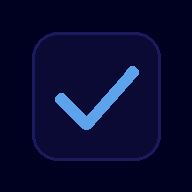
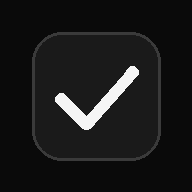
Add files via upload

diff --git a/index.html b/index.html
@@ -5,68 +5,77 @@
 <meta name="viewport" content="width=device-width, initial-scale=1">
 <title>Tareas</title>
 <meta name="description" content="Administra tus tareas con recordatorios.">
-<meta name="theme-color" content="#000020">
+<meta name="theme-color" content="#0a0a0a">
 <link rel="manifest" href="manifest.webmanifest">
 <link rel="icon" href="icon-192.png">
 <link rel="apple-touch-icon" href="icon-192.png">
 <style>
-:root{color-scheme:dark;--bg:#000020;--card:#0a0a35;--text:#eef0ff;--muted:#b3b8e0;--line:#5a63b5;--borde:#1a1a5c;--primary:#5da3ec;--onp:#000020;
-  --ok:#86efac;--okbg:#14532d;--warn:#fcd34d;--warnbg:#78350f;--bad:#fca5a5;--badbg:#7f1d1d;--soon:#b4c0ff;--soonbg:#16165e}
+:root{color-scheme:dark;--bg:#0a0a0a;--card:#141414;--card2:#1b1b1b;--text:#f5f5f5;--muted:#a3a3a3;--line:#6b6b6b;--borde:#262626;--primary:#f5f5f5;--onp:#0a0a0a;
+  --ok:#4ade80;--okbg:#052e16;--warn:#fbbf24;--warnbg:#3a2a05;--bad:#f87171;--badbg:#3b0d0d;--soon:#d4d4d4;--soonbg:#262626;--r:18px}
 *{box-sizing:border-box;margin:0;padding:0}
-body{font-family:system-ui,"Segoe UI",Arial,sans-serif;font-size:17px;line-height:1.5;background:var(--bg);color:var(--text);padding-bottom:110px}
-.wrap{max-width:860px;margin:0 auto;padding:14px}
-h1{font-size:1.5rem}h2{font-size:1.25rem;margin-bottom:12px}h3{font-size:1.1rem}
+body{font-family:system-ui,-apple-system,"Segoe UI",Roboto,Arial,sans-serif;font-size:17px;line-height:1.5;color:var(--text);padding-bottom:110px;
+  background:radial-gradient(1000px 420px at 50% -8%,#1f1f1f 0%,#0a0a0a 62%) fixed,#0a0a0a}
+.wrap{max-width:860px;margin:0 auto;padding:0 14px 14px}
+h1{font-size:1.5rem;font-weight:700;letter-spacing:-.02em}h2{font-size:1.25rem;font-weight:700;letter-spacing:-.01em;margin-bottom:12px}h3{font-size:1.1rem;font-weight:650;letter-spacing:-.01em}
 button,input,select,textarea{font:inherit;color:inherit}
-button{min-height:44px;padding:8px 16px;border-radius:10px;border:2px solid var(--primary);background:var(--primary);color:var(--onp);font-weight:600;cursor:pointer}
-button.sec{background:transparent;color:var(--primary)}
+button{min-height:44px;padding:8px 18px;border-radius:12px;border:1px solid transparent;background:var(--primary);color:var(--onp);font-weight:600;cursor:pointer;transition:transform .15s,background .15s,border-color .15s,filter .15s}
+button:hover{filter:brightness(.92)}button:active{transform:scale(.97)}
+button.sec{background:transparent;color:var(--text);border-color:#3f3f3f}
+button.sec:hover{background:#1f1f1f;border-color:#555;filter:none}
 button.peligro{background:#b91c1c;border-color:#b91c1c;color:#fff}
-button[disabled]{opacity:.6;cursor:not-allowed}
-:focus-visible{outline:3px solid var(--primary);outline-offset:2px}
+button[disabled]{opacity:.55;cursor:not-allowed}
+:focus-visible{outline:2px solid #fff;outline-offset:3px}
 .hidden{display:none!important}
-header.bar{display:flex;flex-wrap:wrap;gap:10px;align-items:center;justify-content:space-between;margin-bottom:14px}
+header.bar{position:sticky;top:0;z-index:10;display:flex;flex-wrap:wrap;gap:10px;align-items:center;justify-content:space-between;
+  margin:0 -14px 16px;padding:12px 14px;background:rgba(10,10,10,.72);backdrop-filter:blur(14px);-webkit-backdrop-filter:blur(14px);border-bottom:1px solid var(--borde)}
 .bar .acc{display:flex;flex-wrap:wrap;gap:8px;align-items:center}
 .bar .mail{color:var(--muted);font-size:.9rem;word-break:break-all}
-.card{background:var(--card);border:1px solid var(--borde);border-radius:14px;padding:16px;margin-bottom:14px}
-.nota{background:var(--soonbg);color:var(--soon);border-radius:10px;padding:12px;margin-bottom:12px;font-size:.95rem}
-.nota.warn{background:var(--warnbg);color:var(--warn)}
+.card{background:linear-gradient(180deg,#171717,#121212);border:1px solid var(--borde);border-radius:var(--r);padding:18px;margin-bottom:14px;box-shadow:inset 0 1px 0 rgba(255,255,255,.04),0 10px 30px rgba(0,0,0,.35)}
+.nota{background:var(--card2);color:#d4d4d4;border:1px solid #2e2e2e;border-radius:14px;padding:12px 14px;margin-bottom:12px;font-size:.95rem}
+.nota.warn{background:var(--warnbg);color:var(--warn);border-color:#5a4210}
 .nota .acc{margin-top:8px}
-label{display:block;font-weight:600;margin:12px 0 4px}
-input,select,textarea{width:100%;min-height:44px;padding:9px 12px;border-radius:10px;border:2px solid var(--line);background:var(--bg)}
+label{display:block;font-weight:600;font-size:.95rem;margin:14px 0 5px;color:#e5e5e5}
+input,select,textarea{width:100%;min-height:46px;padding:10px 13px;border-radius:12px;border:1px solid var(--line);background:#0a0a0a;transition:border-color .15s,box-shadow .15s}
+input:focus,select:focus,textarea:focus{outline:none;border-color:#fff;box-shadow:0 0 0 3px rgba(255,255,255,.18)}
 textarea{min-height:90px;resize:vertical}
 .err{color:var(--bad);font-size:.9rem;margin-top:4px;min-height:1.2em}
-@media(prefers-color-scheme:dark){.err{color:#fca5a5}}
 input[aria-invalid="true"]{border-color:var(--bad)}
 .fila{display:grid;grid-template-columns:1fr 1fr;gap:12px}
 .fila3{display:grid;grid-template-columns:1fr 1fr;gap:8px}
-.filtros{display:flex;flex-wrap:wrap;gap:8px;align-items:center;margin-bottom:14px}
-.filtros .grupo{display:flex;gap:6px;flex-wrap:wrap;flex:1}
+.filtros{display:flex;margin-bottom:16px}
+.filtros .grupo{display:flex;gap:4px;flex:1;flex-wrap:wrap;background:var(--card);border:1px solid var(--borde);border-radius:999px;padding:4px}
+.filtros button{flex:1 1 auto;border-radius:999px;border:none;background:transparent;color:var(--muted);padding:8px 14px}
+.filtros button:hover{color:var(--text);filter:none}
 .filtros button[aria-pressed="true"]{background:var(--primary);color:var(--onp)}
-.filtros button[aria-pressed="false"]{background:transparent;color:var(--primary)}
 ul{list-style:none}
-.tarea{background:var(--card);border:1px solid var(--borde);border-left:8px solid var(--line);border-radius:14px;padding:14px;margin-bottom:12px}
-.tarea.e-vencida{border-left-color:var(--bad)}.tarea.e-proxima{border-left-color:var(--warn)}
-.tarea.e-pendiente{border-left-color:var(--soon)}.tarea.e-realizada{border-left-color:var(--ok)}
+.tarea{position:relative;background:linear-gradient(180deg,#171717,#121212);border:1px solid var(--borde);border-radius:var(--r);padding:16px 16px 16px 24px;margin-bottom:12px;
+  box-shadow:inset 0 1px 0 rgba(255,255,255,.04),0 8px 24px rgba(0,0,0,.3);transition:transform .15s,border-color .15s}
+.tarea:hover{transform:translateY(-1px);border-color:#3a3a3a}
+.tarea::before{content:"";position:absolute;left:9px;top:16px;bottom:16px;width:4px;border-radius:4px;background:var(--line)}
+.tarea.e-vencida::before{background:var(--bad)}.tarea.e-proxima::before{background:var(--warn)}
+.tarea.e-pendiente::before{background:#a3a3a3}.tarea.e-realizada::before{background:var(--ok)}
 .tarea.e-realizada h3{text-decoration:line-through;color:var(--muted)}
 .cab{display:flex;justify-content:space-between;gap:10px;align-items:flex-start;flex-wrap:wrap}
-.badge{font-size:.85rem;font-weight:700;border-radius:999px;padding:3px 12px;white-space:nowrap}
+.badge{font-size:.8rem;font-weight:700;letter-spacing:.02em;border-radius:999px;padding:3px 12px;white-space:nowrap}
 .b-vencida{background:var(--badbg);color:var(--bad)}.b-proxima{background:var(--warnbg);color:var(--warn)}
 .b-pendiente{background:var(--soonbg);color:var(--soon)}.b-realizada{background:var(--okbg);color:var(--ok)}
 .tarea p{margin-top:4px}.tarea .mut{color:var(--muted);font-size:.95rem}
 .tarea .com{white-space:pre-wrap;word-break:break-word}
-.acciones{display:flex;flex-wrap:wrap;gap:8px;margin-top:12px}
-.vacio{text-align:center;color:var(--muted);padding:30px 10px}
-.fab{position:fixed;right:16px;bottom:16px;z-index:20;box-shadow:0 4px 14px rgba(0,0,0,.35);border-radius:999px;padding:12px 22px}
-dialog{border:none;border-radius:16px;padding:20px;width:min(560px,94vw);max-height:92vh;overflow:auto;background:var(--card);color:var(--text)}
-dialog::backdrop{background:rgba(0,0,0,.6)}
-.pie{display:flex;gap:10px;flex-wrap:wrap;justify-content:flex-end;margin-top:18px}
+.acciones{display:flex;flex-wrap:wrap;gap:8px;margin-top:14px}
+.vacio{text-align:center;color:var(--muted);padding:34px 10px}
+.fab{position:fixed;right:16px;bottom:16px;z-index:20;border-radius:999px;padding:13px 24px;font-weight:700;
+  box-shadow:0 10px 30px rgba(0,0,0,.6),0 0 0 1px rgba(255,255,255,.15),0 0 24px rgba(255,255,255,.12)}
+dialog{border:1px solid var(--borde);border-radius:22px;padding:22px;width:min(560px,94vw);max-height:92vh;overflow:auto;background:linear-gradient(180deg,#181818,#101010);color:var(--text);box-shadow:0 30px 80px rgba(0,0,0,.7)}
+dialog::backdrop{background:rgba(0,0,0,.72);backdrop-filter:blur(4px)}
+.pie{display:flex;gap:10px;flex-wrap:wrap;justify-content:flex-end;margin-top:20px}
 #alertas{position:fixed;inset:0;z-index:50;display:grid;gap:10px;padding:14px;align-content:center;justify-items:center;overflow:auto;pointer-events:none}
-#alertas:not(:empty){background:rgba(0,0,0,.65);pointer-events:auto}
-@keyframes pulso{50%{box-shadow:0 0 0 12px rgba(245,158,11,.55)}}
-.alerta{width:min(520px,100%);background:var(--card);border:4px solid var(--warn);border-radius:16px;padding:18px;box-shadow:0 8px 30px rgba(0,0,0,.5);animation:pulso 1s ease-in-out infinite}
-.alerta strong{display:block;font-size:1.35rem}
+#alertas:not(:empty){background:rgba(0,0,0,.78);backdrop-filter:blur(5px);pointer-events:auto}
+@keyframes pulso{50%{box-shadow:0 0 0 12px rgba(251,191,36,.45)}}
+.alerta{width:min(520px,100%);background:linear-gradient(180deg,#1a1a1a,#101010);border:2px solid var(--warn);border-radius:22px;padding:20px;box-shadow:0 12px 40px rgba(0,0,0,.6);animation:pulso 1s ease-in-out infinite}
+.alerta strong{display:block;font-size:1.35rem;letter-spacing:-.01em}
 .alerta .mut{color:var(--muted)}
-#toast{position:fixed;left:50%;transform:translateX(-50%);bottom:84px;background:var(--card);border:1px solid var(--primary);color:#fff;border-radius:10px;padding:10px 18px;z-index:60;max-width:92vw;text-align:center}
-details{margin-top:8px}summary{cursor:pointer;min-height:44px;display:flex;align-items:center;color:var(--primary);font-weight:600}
+#toast{position:fixed;left:50%;transform:translateX(-50%);bottom:84px;background:#f5f5f5;color:#0a0a0a;font-weight:600;border-radius:999px;padding:11px 20px;z-index:60;max-width:92vw;text-align:center;box-shadow:0 10px 30px rgba(0,0,0,.6)}
+details{margin-top:8px}summary{cursor:pointer;min-height:44px;display:flex;align-items:center;color:var(--text);font-weight:600}
 details p{margin-top:6px;color:var(--muted)}
 .opciones{display:flex;flex-wrap:wrap;gap:8px;margin:10px 0}
 @media(max-width:520px){.fila{grid-template-columns:1fr}.acciones button{flex:1 1 40%}}
@@ -141,6 +150,19 @@ details p{margin-top:6px;color:var(--muted)}
         <div class="fila">
             <div><label for="fFecha">Fecha</label><input id="fFecha" type="date" required aria-describedby="eFecha"><p id="eFecha" class="err" role="alert"></p></div>
             <div><label for="fHora">Hora de ejecución</label><input id="fHora" type="time" required aria-describedby="eHora"><p id="eHora" class="err" role="alert"></p></div>
+        </div>
+        <label for="fRepite">Repetir</label>
+        <select id="fRepite">
+            <option value="none">No se repite</option>
+            <option value="diaria">Todos los días</option>
+            <option value="semanal">Todas las semanas</option>
+            <option value="mensual">Todos los meses</option>
+        </select>
+        <div id="boxRepetir" class="hidden">
+            <label for="fHasta">Repetir hasta (opcional)</label>
+            <input id="fHasta" type="date" aria-describedby="eHasta">
+            <p id="eHasta" class="err" role="alert"></p>
+            <p style="color:var(--muted);font-size:.9rem">Al marcar la tarea como realizada se crea sola la siguiente. En los meses que no tienen ese día se usa el último día del mes.</p>
         </div>
         <label for="fRec">Recordatorio</label>
         <select id="fRec">
@@ -222,7 +244,7 @@ details p{margin-top:6px;color:var(--muted)}
 import {initializeApp} from "https://www.gstatic.com/firebasejs/10.14.1/firebase-app.js";
 import {getAuth, onAuthStateChanged, signInWithEmailAndPassword, createUserWithEmailAndPassword, signOut, sendPasswordResetEmail}
     from "https://www.gstatic.com/firebasejs/10.14.1/firebase-auth.js";
-import {initializeFirestore, getFirestore, persistentLocalCache, persistentMultipleTabManager, collection, doc, addDoc, updateDoc, deleteDoc, onSnapshot, query, orderBy}
+import {initializeFirestore, getFirestore, persistentLocalCache, persistentMultipleTabManager, collection, doc, addDoc, setDoc, updateDoc, deleteDoc, onSnapshot, query, orderBy}
     from "https://www.gstatic.com/firebasejs/10.14.1/firebase-firestore.js";
 
 // Mismo proyecto de Firebase que las demás apps. Sesión propia ("tareas") para no cerrar la de otras apps.
@@ -301,6 +323,7 @@ function render(){
         return `<li class="tarea e-${e}" data-id="${t.id}">
             <div class="cab"><h3>${esc(t.titulo)}</h3><span class="badge b-${e}">${ETIQ[e]}</span></div>
             <p>📅 ${esc(fmtFecha(t))}${rel}</p>
+            ${t.repite && t.repite !== "none" ? `<p class="mut">🔁 ${esc(textoRepite(t))}</p>` : ""}
             ${t.estado !== "realizada" && t.recordar != null ? `<p class="mut">🔔 Aviso ${esc(textoMin(t.recordar))}${t.posponerHasta ? " (pospuesto)" : ""}</p>` : ""}
             ${t.comentarios ? `<p class="com mut">${esc(t.comentarios)}</p>` : ""}
             <div class="acciones">
@@ -330,12 +353,57 @@ document.querySelectorAll(".filtros [data-f]").forEach(b => b.addEventListener("
     render();
 }));
 
+/* ---------- Tareas recurrentes ---------- */
+const fechaDe = ts => { const d = new Date(ts); return `${d.getFullYear()}-${pad(d.getMonth()+1)}-${pad(d.getDate())}`; };
+function textoRepite(t){
+    const d = new Date(t.ts);
+    let x = t.repite === "diaria" ? "Todos los días"
+        : t.repite === "semanal" ? "Cada " + d.toLocaleDateString("es", {weekday: "long"})
+        : "Cada mes, el día " + (t.ancla || d.getDate());
+    if(t.repiteHasta) x += " (hasta el " + new Date(t.repiteHasta + "T12:00:00").toLocaleDateString("es", {day: "numeric", month: "short", year: "numeric"}) + ")";
+    return x;
+}
+function siguienteTs(t){                 // próxima ocurrencia posterior a ahora
+    const base = new Date(t.ts), hh = base.getHours(), mm = base.getMinutes(), ancla = t.ancla || base.getDate();
+    let y = base.getFullYear(), m = base.getMonth(), d = base.getDate(), ts = t.ts, n = 0;
+    do{
+        if(t.repite === "diaria") d += 1;
+        else if(t.repite === "semanal") d += 7;
+        else{ m += 1; d = Math.min(ancla, new Date(y, m + 1, 0).getDate()); }
+        ts = new Date(y, m, d, hh, mm).getTime();
+        const x = new Date(ts); y = x.getFullYear(); m = x.getMonth(); d = x.getDate();
+    }while(ts <= Date.now() && ++n < 2000);
+    return ts;
+}
+function generarSiguiente(t){            // crea la siguiente ocurrencia; devuelve {id, ts} o null si la serie terminó
+    const ts = siguienteTs(t), f = fechaDe(ts);
+    if(t.repiteHasta && f > t.repiteHasta) return null;
+    const ref = doc(colTareas());
+    guardado(setDoc(ref, {titulo: t.titulo, fecha: f, hora: t.hora, ts, recordar: t.recordar ?? null, comentarios: t.comentarios || "",
+        estado: "pendiente", repite: t.repite, repiteHasta: t.repiteHasta || null, ancla: t.ancla || new Date(t.ts).getDate(),
+        creada: Date.now(), actualizada: Date.now(), posponerHasta: null, notificadoPara: null}));
+    return {id: ref.id, ts};
+}
+function quitarSiguiente(t){             // al reabrir una tarea, elimina la siguiente si aún está pendiente
+    const nx = t.siguienteId && tareas.find(x => x.id === t.siguienteId);
+    if(nx && nx.estado !== "realizada") guardado(deleteDoc(refTarea(nx.id)));
+}
+const repiteActiva = t => t.repite && t.repite !== "none";
+
 function marcar(t, estado){
     const d = {estado, actualizada: Date.now()};
-    if(estado === "pendiente"){ d.posponerHasta = null; d.notificadoPara = null; }
+    let msg = estado === "realizada" ? "Tarea marcada como realizada." : "Tarea reabierta.";
+    if(estado === "pendiente"){
+        d.posponerHasta = null; d.notificadoPara = null;
+        if(t.siguienteId){ quitarSiguiente(t); d.siguienteId = null; }
+    }else if(repiteActiva(t) && !t.siguienteId){
+        const sg = generarSiguiente(t);
+        if(sg){ d.siguienteId = sg.id; t.siguienteId = sg.id; msg += " Próxima: " + fmtFecha({ts: sg.ts}) + "."; }
+        else msg += " La repetición terminó.";
+    }
     guardado(updateDoc(refTarea(t.id), d));
     quitarAlerta(t.id);
-    toast(estado === "realizada" ? "Tarea marcada como realizada." : "Tarea reabierta.");
+    toast(msg);
 }
 function confirmar(texto){
     return new Promise(res => {
@@ -345,7 +413,7 @@ function confirmar(texto){
     });
 }
 async function borrar(t){
-    if(!await confirmar(`Se eliminará «${t.titulo}». Esta acción no se puede deshacer.`)) return;
+    if(!await confirmar(`Se eliminará «${t.titulo}». Esta acción no se puede deshacer.` + (repiteActiva(t) && t.estado !== "realizada" ? " Como se repite, también se detendrá la repetición." : ""))) return;
     guardado(deleteDoc(refTarea(t.id)));
     quitarAlerta(t.id);
     toast("Tarea eliminada.");
@@ -354,9 +422,17 @@ async function borrar(t){
 /* ---------- Formulario ---------- */
 const PRESETS = ["0", "5", "10", "15", "30", "60", "120", "1440"];
 function limpiarErrores(){
-    ["eTitulo", "eFecha", "eHora", "eRec"].forEach(i => $(i).textContent = "");
-    ["fTitulo", "fFecha", "fHora", "fRecNum"].forEach(i => $(i).removeAttribute("aria-invalid"));
+    ["eTitulo", "eFecha", "eHora", "eRec", "eHasta"].forEach(i => $(i).textContent = "");
+    ["fTitulo", "fFecha", "fHora", "fRecNum", "fHasta"].forEach(i => $(i).removeAttribute("aria-invalid"));
 }
+function actualizarRepite(){
+    const f = $("fFecha").value, d = f ? new Date(f + "T12:00:00") : new Date(), o = $("fRepite").options;
+    o[2].textContent = "Todas las semanas (cada " + d.toLocaleDateString("es", {weekday: "long"}) + ")";
+    o[3].textContent = "Todos los meses (el día " + d.getDate() + ")";
+    show("boxRepetir", $("fRepite").value !== "none");
+}
+$("fRepite").addEventListener("change", actualizarRepite);
+$("fFecha").addEventListener("change", actualizarRepite);
 function actualizarHintPermiso(){
     show("hintPermiso", soporta && Notification.permission === "default" && $("fRec").value !== "none");
 }
@@ -371,6 +447,9 @@ function abrirForm(t){
         $("fFecha").value = hoyStr(); $("fHora").value = pad(d.getHours()) + ":00";
         if(d.getDate() !== new Date().getDate()) $("fFecha").value = `${d.getFullYear()}-${pad(d.getMonth()+1)}-${pad(d.getDate())}`;
     }
+    $("fRepite").value = t && t.repite ? t.repite : "none";
+    $("fHasta").value = t && t.repiteHasta ? t.repiteHasta : "";
+    actualizarRepite();
     const r = t ? t.recordar : 15;
     if(r == null) $("fRec").value = "none";
     else if(PRESETS.includes(String(r))) $("fRec").value = String(r);
@@ -406,16 +485,23 @@ $("formTarea").addEventListener("submit", async e => {
         if(!Number.isInteger(n) || n < 1 || n * u > 525600){ invalido("fRecNum", "eRec", "Escribe un número entero mayor que 0 (máximo 1 año)."); ok = false; foco = foco || "fRecNum"; }
         else recordar = n * u;
     }else if(v !== "none") recordar = Number(v);
+    const repite = $("fRepite").value, hasta = $("fHasta").value;
+    if(repite !== "none" && hasta && fecha && hasta < fecha){ invalido("fHasta", "eHasta", "La fecha final debe ser igual o posterior a la fecha de inicio."); ok = false; foco = foco || "fHasta"; }
     if(!ok){ $(foco).focus(); return; }
 
     if(recordar != null) await pedirPermiso();   // solo cuando hay un recordatorio que lo necesite
 
     const id = $("formTarea").dataset.id, prev = tareas.find(x => x.id === id);
     const datos = {titulo, fecha, hora, ts: calcTs(fecha, hora), recordar, comentarios: $("fComentarios").value.trim(),
-        estado: $("fEstado").value, actualizada: Date.now()};
+        estado: $("fEstado").value, actualizada: Date.now(),
+        repite, repiteHasta: repite !== "none" && hasta ? hasta : null, ancla: Number(fecha.slice(8, 10))};
     if(!prev || prev.ts !== datos.ts || prev.recordar !== datos.recordar || (prev.estado === "realizada" && datos.estado === "pendiente")){
         datos.posponerHasta = null; datos.notificadoPara = null;
     }
+    if(prev && prev.estado !== "realizada" && datos.estado === "realizada" && repiteActiva(datos) && !prev.siguienteId){
+        const sg = generarSiguiente({...prev, ...datos}); if(sg) datos.siguienteId = sg.id;
+    }
+    if(prev && prev.estado === "realizada" && datos.estado === "pendiente" && prev.siguienteId){ quitarSiguiente(prev); datos.siguienteId = null; }
     if(prev) guardado(updateDoc(refTarea(id), datos));
     else guardado(addDoc(colTareas(), {...datos, creada: Date.now(), posponerHasta: null, notificadoPara: null}));
     $("dlgTarea").close();

diff --git a/sw.js b/sw.js
@@ -1,4 +1,4 @@
-const CACHE = "tareas-v5"; // cambia el número al publicar una versión nueva
+const CACHE = "tareas-v7"; // cambia el número al publicar una versión nueva
 const BASE = ["./", "./index.html", "./manifest.webmanifest", "./icon-192.png", "./icon-512.png"];
 
 self.addEventListener("install", e => {
